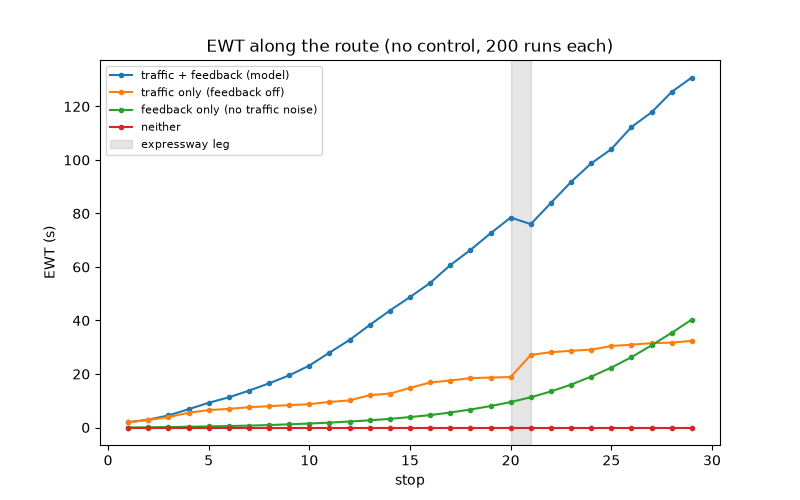
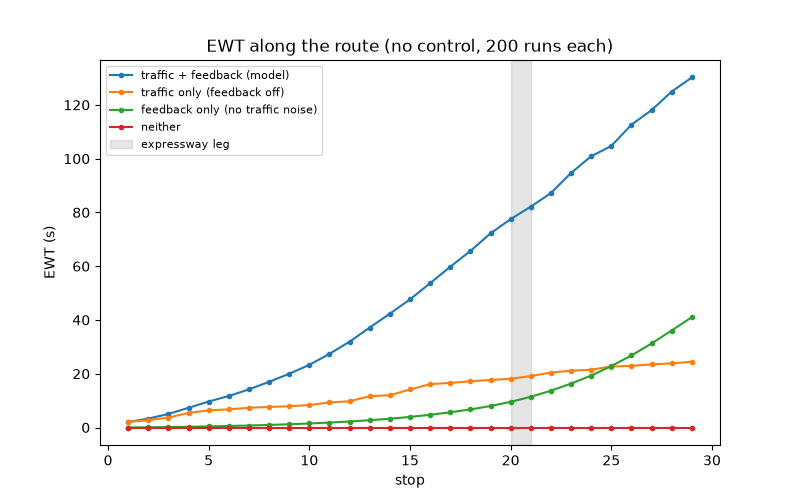
added delta sweep, learning log

diff --git a/busBunch.py b/busBunch.py
@@ -8,10 +8,10 @@ PROFILE_RUNS = 200
 
 # boarding feedback: on = model (dwell grows with time since the last bus, Poisson boarding);
 # off = every bus dwells for the model's mean, so headway no longer affects dwell
-FEEDBACK = {"boarding feedback on (model)": True, "boarding feedback off (constant dwell)": False}
+FEEDBACK = {"boarding feedback on (model)": True}
 
 if __name__ == "__main__":
-    # 1. traffic-noise sweep, no control, with and without boarding feedback
+    # 1. traffic-noise sweep, no control
     traffic_factor = np.arange(0.0, 1.5, 0.2)
     results = {name: [run_batch(RUN_COUNT, traffic_factor=f, passenger_noise=fb) for f in traffic_factor]
                for name, fb in FEEDBACK.items()}

diff --git a/tc_sweep.py b/tc_sweep.py
@@ -30,6 +30,7 @@ if __name__ == "__main__":
                         marker='o', capsize=3, label=name)
         ax.axhline(baseline[key], color='grey', linestyle='--', label='no control')
         ax.axvline(74, color='red', linestyle=':', label='predicted instability (about 74 min)')
+        ax.axvline(0.5, color='red', linestyle=':', label='predicted instability (about 25 sec)')
         ax.set(title=title, ylabel=unit)
     axs[0].legend(fontsize=8)
     axs[3].set(xscale='log', xlabel='T_c (min), gain = 1/T_c')

diff --git a/helpers.py b/helpers.py
@@ -27,7 +27,7 @@ def get_speed(expressway = False, traffic_factor = 0):
         return (EXPRESSWAY_SPEED if expressway else ARTERIAL_SPEED)/3600
     
     if expressway:
-        mean, std = EXPRESSWAY_SPEED, traffic_factor * 3
+        mean, std = EXPRESSWAY_SPEED, traffic_factor * 1
         low, high = max(mean - 3 * std, 3), min(mean + 3 * std, 60)
     else:
         mean, std = ARTERIAL_SPEED, traffic_factor * 5

diff --git a/docs/learning_log.md b/docs/learning_log.md
@@ -1,0 +1,80 @@
+# Learning log
+
+This project was fundamentally a way to reinforce my understanding of controls and dynamical systems. After completing the second-year control systems course, although I enjoyed the ideas and intentions behind the teaching, I struggled when concepts became overly theoretical without linking to real-world examples. As such, I wanted to work on something with relevance to both my life and technical knowledge, concretely establishing concepts rather than taking face-value solutions and algorithmically solving problems.
+
+Upon reflection, I was unhappy with my unfamiliarity with stability analysis, and wanted to see these control concepts applied to an actual system context. I chose bus bunching as an area of focus, one because I have joked about this particular bus service bunching with my friends many times, but also because it serves as a potent testbed for me to flesh out whatever theory I had learnt in my education. The connection to my future career in the land transportation sector was also a plus.
+
+This project stretched me in ways I was not expecting. Coming in with a head of steam and hubris from what I thought was a technically rigorous continuous-time linear systems course, I was soon stumped by discretisation, stochasticity, multiple controllers and other issues I had brought upon myself. Through the implementation of this project, I had to pick up a few bits of knowledge through self-directed learning to ensure that this project was not just a shell of what I had envisioned it to be, including detours into linear algebra, difference equations, saturation in feedback loops, modal analysis, stochastic modelling, and other concepts I had not met in my formal education. Much of this came from working through problems with Claude Code, and then reviewing the results in my own simulations. Below I have documented the concepts I picked up.
+
+## Control and dynamics
+
+### Lags and delays cost phase differently
+
+A first-order lag 1/(τs + 1) approaches its target gradually, never overshoots, and costs at most 90° of phase. A pure delay e^{−sτ} gives the same response shifted in time, and costs phase without limit as frequency rises, which makes it the more dangerous of the two. A real driver is roughly both: a short reaction delay, then a gradual adjustment. A zero-order hold behaves roughly like a delay of half a period.
+
+### Bus bunching is an unstable plant driven by a disturbance
+
+
+### Stabilising an open-loop-unstable plant needs a minimum gain as well as a maximum
+*Worked out through discussion.*
+
+Per mode, the plant is 1/(s − β_θ), with a right-half-plane pole set by the boarding rate β. The controller has to supply enough negative feedback to beat it: α > β/2, which is T_c below about 74 min. The update delay caps the gain from above. So the controller has a stability window, not just an upper limit.
+
+In Nyquist terms, with one open-loop RHP pole, the plot must encircle −1 once anticlockwise; avoiding it is not enough. Leaving out Daganzo and Pilachowski's cancellation term is what made this lower edge appear.
+
+### Diagonalising a platoon: the graph Laplacian
+
+For the spring law on an open chain with "ghost" end buses, I:
+
+1. bounded the eigenvalues to [0, 4] with Gershgorin discs;
+2. solved the interior recurrence;
+3. showed its characteristic roots lie on the unit circle, because their product is 1;
+4. treated the ghost buses as mirror boundary conditions (y₀ = y₁ and y_{N+1} = y_N).
+
+That gives λ_k = 2 − 2cos(kπ/N), with mode shapes cos((n − ½)kπ/N). I also checked the repeated-root cases: λ = 0 is the "all buses equally late" mode, and λ = 4 is not an eigenvalue of the open chain.
+
+- **Lesson:** a shift-invariant system is diagonalised by waves (e^{inθ}), in the same way an LTI system is diagonalised by e^{st}. Boundaries decide which waves fit.
+
+### Ring versus open chain, and the limits of eigenvalues
+*Worked out through discussion; checked numerically.*
+
+On a ring, the boarding matrix and the spring matrix share eigenvectors, so the coupled pole has a closed form: s(θ) = (β − 2α)(1 − cos θ) + iβ sin θ. On the open chain they do not, so I computed the eigenvalues numerically instead. The stability edge matched the ring formula to within 0.3%.
+
+The boarding coupling is one-sided, so the matrix is non-normal. Disturbances can then grow for a while as they travel down the chain, even when every eigenvalue is stable. This is related to string stability.
+
+- **Lesson:** eigenvalues settle asymptotic stability, but not how large a disturbance gets on the way.
+
+### Discrete or continuous? One model, with continuous as a limit
+
+
+
+
+### Saturation: slow-only control and headroom
+*Worked out through discussion; measured in simulation.*
+
+Capping the command at the cruise speed removes half the restoring force: a bus that is behind cannot catch up. Headroom δ moves the operating point below the cap so both halves work again, at the cost of trip time. A stronger gain can partly make up for missing headroom.
+
+- **Lesson:** a saturation inside a loop changes how the controller should be designed, not just how well it performs.
+
+### Instability over a finite time is gradual
+
+Just past the 74 min edge, errors grow, but slowly: about 1.75× over an hour, against about 25× with no control. So over a one-hour trip, performance worsens smoothly rather than collapsing. Aggregate metrics are monotonic in the gain, so they cannot locate the edge. Only a growth rate can.
+
+## Stochastic modelling and statistics
+
+- **Zero-mean noise is not neutral for a quadratic metric.** E[(h + Δ)²] = h² + Var(Δ). Overtaking (re-sorting arrivals) removes some of that increase. This explained why excess wait time stayed flat across the expressway: independent noise split up bunched pairs.
+- **Modelling assumptions shape results.** That un-bunching only happens because each bus draws its own expressway speed. Real buses close together share traffic. This led me to reconsider what the noise standard deviation means: differences between buses, not day-to-day variation.
+- **Truncating a distribution can change its mean and its spread.** Bounds of [15, 45] km/h raised the mean as noise grew. Bounds at ±1σ cut the actual sd to 0.54σ. Symmetric ±3σ bounds fixed both.
+- **Independent samples.** Buses within one run share a history, so confidence intervals must use one value per run. Pooling every trip would have made them about 5× too narrow.
+
+## Metrics
+
+- **Excess wait time is quadratic in headway.** Passengers arrive at a steady rate, so a gap of length h collects passengers in proportion to h, and each waits h/2 on average. The total waiting in that gap is therefore proportional to h × h/2 = h²/2. Long gaps cost twice over: more people are caught in them, and each one waits longer. For example, gaps of 100 s and 500 s give 66.7 s more average wait than two even 300 s gaps, even though the mean headway is the same.
+- **EWT cannot see a shift common to all buses.** If every bus is late by the same amount, EWT is zero. That is the λ = 0 mode, which the spring law does not control either.
+- **EWT assumes the mean headway equals H.** It can go negative when control speeds buses up.
+
+## Engineering practice
+
+- **Pass parameters explicitly, rather than through module-level globals.** A global is hidden state, and it would silently reset in parallel worker processes.
+- **Write the batch loop once** (`run_batch`). New experiments become short scripts, and every experiment computes its metrics the same way.
+- **Predict, then simulate.** Most results here (the stability window, the oscillation onset, the boarding-noise amplification) were predicted first and then checked. The expressway effect was the exception: a surprise in the data, explained afterwards with a targeted test.

diff --git a/README.md b/README.md
@@ -4,6 +4,8 @@ A simulation of bus bunching on SMRT service 190 (Kampong Bahru Terminal to Choa
 
 **Status:** the uncontrolled baseline and a first controller are complete. The headroom trade-off, a discrete driver display and driver lag are in progress.
 
+This project was also a way to extend my control background. What I learned along the way, and which results I derived myself, is in [docs/learning_log.md](docs/learning_log.md).
+
 <img width="2400" height="800" alt="Animation of 190 buses along the route, with bunched buses in red" src="https://github.com/user-attachments/assets/81368f2a-8a7e-4990-985b-4adb60d7a8e3" />
 
 ## Headline so far
@@ -17,7 +19,7 @@ A slow-only version of Daganzo and Pilachowski's cooperative speed control, whic
 The model is tick-based, with 1-second ticks. Buses are dispatched every 5 minutes from 17:00 to 19:00, which gives 25 buses. Each run continues until every bus has reached the terminal.
 
 - **Route:** 31 stops over 22.3 km, from the LTA DataMall BusRoutes API (direction 2). The data is cached in `data/route_190_dir2.json`. It includes a 9.1 km non-stop expressway leg between stop 20 (Raffles Town Club) and stop 21 (Blk 223).
-- **Speed:** each bus draws one speed per leg, when it leaves a stop. The draw is a normal distribution truncated at the mean ± 3 sd, so the truncation does not shift the mean (with a floor of 5 km/h arterial and 3 km/h expressway). A *traffic factor* scales both standard deviations. Factor 1.0 is the baseline: 5 km/h on arterial roads, about 13 s of travel-time sd on a typical 0.45 km leg, and 3 km/h on the expressway.
+- **Speed:** each bus draws one speed per leg, when it leaves a stop. The draw is a normal distribution truncated at the mean ± 3 sd, so the truncation does not shift the mean (with a floor of 5 km/h arterial and 3 km/h expressway). A *traffic factor* scales both standard deviations. Factor 1.0 is the baseline: 5 km/h on arterial roads, about 13 s of travel-time sd on a typical 0.45 km leg, and 1 km/h on the expressway. Because each bus draws its own speed, the sd represents how differently buses fare on the same leg, not day-to-day variation (which affects all buses alike and leaves headways unchanged). On arterial roads that difference is large (one bus catches a red light, the next a green). On a free-flowing expressway, buses a few minutes apart share conditions, so it is small.
 - **Dwell:** a fixed 15.6 s per stop, plus 1.52 s per boarding passenger. Boardings are Poisson-distributed, with mean = arrival rate × time since the previous bus left that stop. Late buses therefore pick up more passengers and fall further behind, which is the feedback that causes bunching. The average dwell works out at 29.3 s.
 - **Bunching:** a pair of consecutive buses is counted as bunched once the follower catches or passes its leader. Overtaking is allowed.
 
